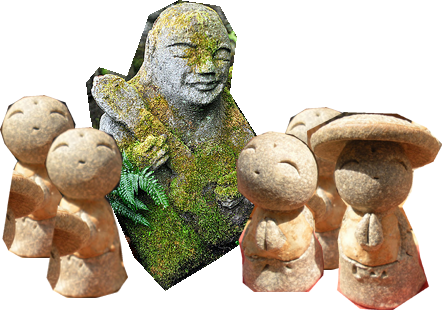
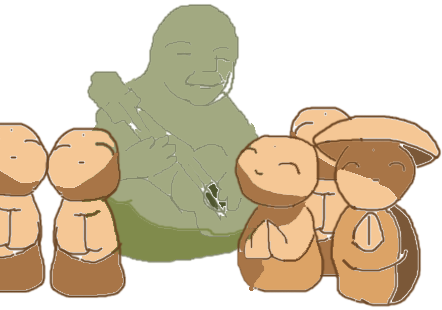
Solución para reemplazar las imágenes
Ahora a ver si consigo reemplazarlas también en GitHub

diff --git a/README.md b/README.md
@@ -2,3 +2,58 @@ MachacaImagenes
 ===============
 Edición del readme desde Github.<br>
 Esto mola XD
+
+
+finalmente!!!
+
+git filter-branch -f --tree-filter 'cp -f /home/juan/jump_bg_1_stone_statues_new.png /home/juan/MachacaImagenes/imagenes/jump_bg_1_stone_statues.png'
+
+
+
+INFORMACIÓN OBTENIDA AQUÍ:
+
+http://qiita.com/wnoguchi/items/62f5e64ef2ae14b4f0ee
+
+
+gitのコミットの中からパスワードや個人情報等の大事なデータが含まれたものを除去したいときは git filter-branch を使うと便利らしいです。
+
+localhost:example noguchiwataru$ git filter-branch -f --tree-filter 'cp -f /Users/noguchiwataru/Desktop/dummy.png img/confidential.png'
+Rewrite 2f712b995fa92c8c1bdadaefd21316ffb2ae9eb7 (9/9)
+Ref 'refs/heads/master' was rewritten
+
+オブジェクトがローカルに残っているので gc で抹消します。
+
+localhost:example noguchiwataru$ git gc
+Counting objects: 6571, done.
+Delta compression using up to 4 threads.
+Compressing objects: 100% (4809/4809), done.
+Writing objects: 100% (6571/6571), done.
+Total 6571 (delta 1662), reused 6544 (delta 1645)
+
+ここでは大事な文字が画像に書き込まれていたというシーンを想定して特定のディレクトリから画像をコピーして上書きしています。削除したいときはrmすればいいと思います。
+
+内部的にはfilterで指定した内容で作業ツリーを書き換えた後にそれぞれのコミットについて再度コミットをかけているようです。
+
+あとはpushするだけですが、再コミットしている段階でリモートブランチと作業ツリーの内容は完全に別物のハッシュになっているので
+
+localhost:example noguchiwataru$ git push
+To git@github.com:wnoguchi/example.git
+ ! [rejected]        master -> master (non-fast-forward)
+error: failed to push some refs to 'git@github.com:wnoguchi/example.git'
+hint: Updates were rejected because the tip of your current branch is behind
+hint: its remote counterpart. Merge the remote changes (e.g. 'git pull')
+hint: before pushing again.
+hint: See the 'Note about fast-forwards' in 'git push --help' for details.
+
+そのままではコンフリクトしてpushできません。なので、-fオプションをつけて強制的にリモートブランチを上書きしています。
+
+localhost:example noguchiwataru$ git push -f
+Counting objects: 6531, done.
+Delta compression using up to 4 threads.
+Compressing objects: 100% (4786/4786), done.
+Writing objects: 100% (6531/6531), 52.51 MiB | 1.71 MiB/s, done.
+Total 6531 (delta 1628), reused 6531 (delta 1628)
+To git@github.com:wnoguchi/example.git
+ + 2f712b9...0b6cfa9 master -> master (forced update)
+
+以上で完了。
